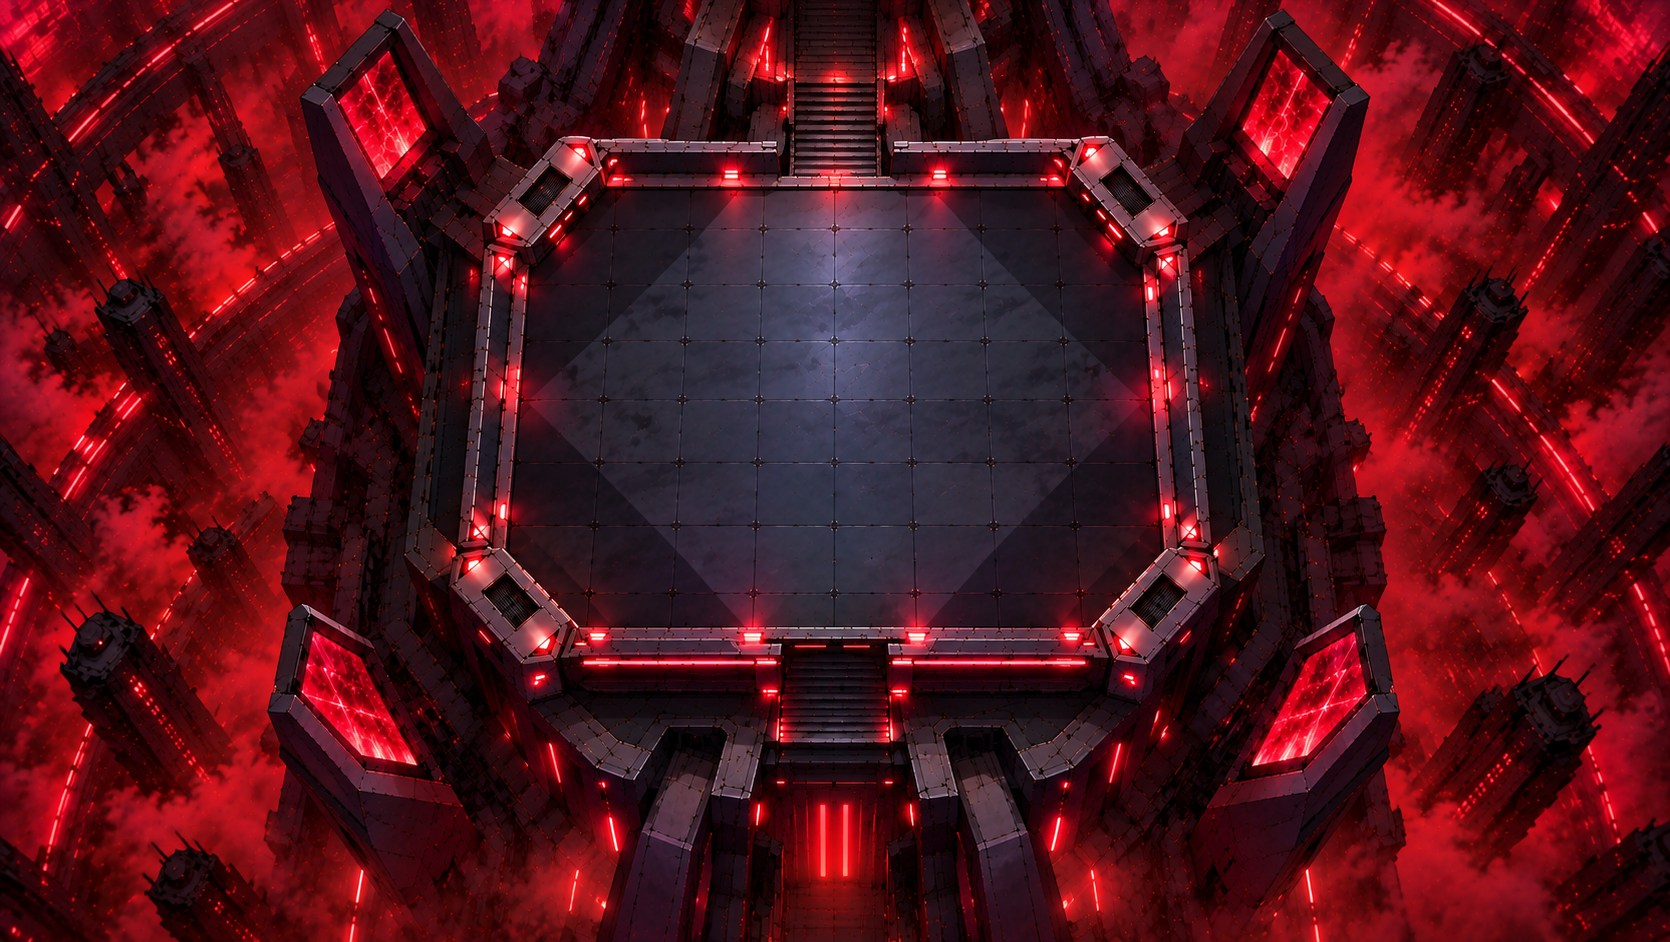
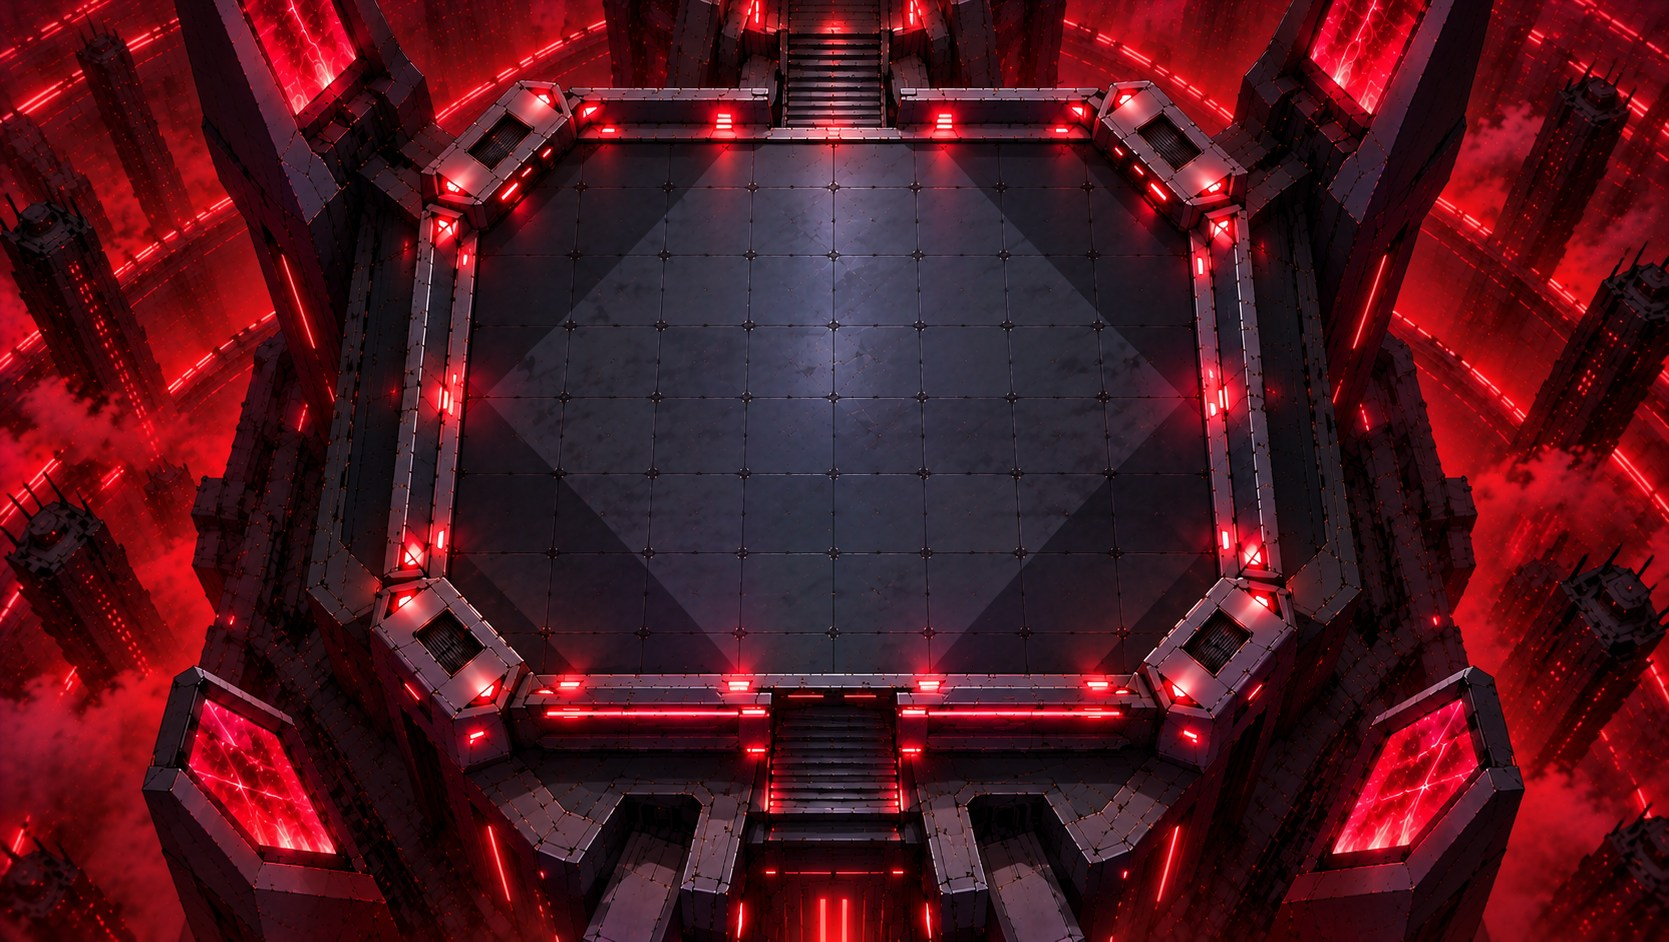
Seconda versione dell'immagine del campo Mondo Virtuale - Arena di Gozaburo
L'utente ha ricambiato il PNG con una nuova resa (rosso piu' intenso). Riconvertito in JPG con gli stessi parametri di prima: 1669x942, qualita' 90 desktop (346 KB) / 78 mobile (224 KB). sw.js v104.

diff --git a/sw.js b/sw.js
@@ -180,6 +180,8 @@
 // riempire lo schermo, e si riadatta alla rotazione. Nessun file nuovo.
 // v60: Storia — ritorno alla mappa della campagna a fine duello, tappe
 // rigiocabili, conferma prima di ricominciare. Nessun file nuovo.
+// v104: seconda versione dell'immagine del campo Mondo Virtuale - Arena
+// di Gozaburo (l'utente l'ha ricambiata, stesso nome di file).
 // v103: nuova immagine del campo Mondo Virtuale - Arena di Gozaburo
 // (stesso nome di file).
 // v102: nuova immagine del campo Dirigibile KaibaCorp (stesso nome di
@@ -325,7 +327,7 @@
 // quindi cache-first). Le altre campagne puntano già al nome della
 // propria, che ancora non esiste: il bump serve perché chi avesse in
 // cache un 404 a quei percorsi non se lo porti dietro.
-const CACHE_NAME = 'ygo-duel-arena-v103';
+const CACHE_NAME = 'ygo-duel-arena-v104';
 
 // L'intera "app shell": tutte le pagine HTML + tutto il codice JS/CSS che
 // le fa funzionare. Leggero (pochi MB in tutto), quindi si può precaricare
